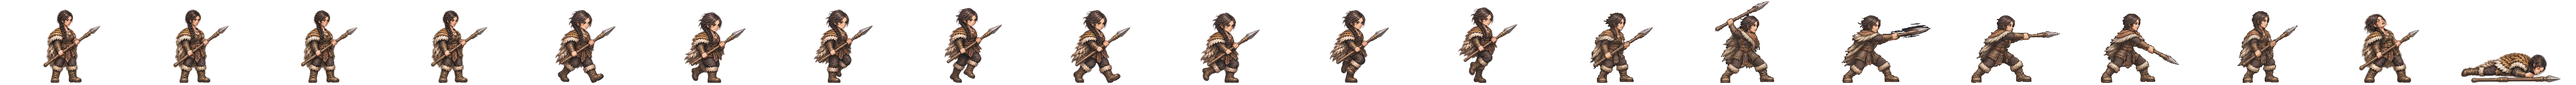
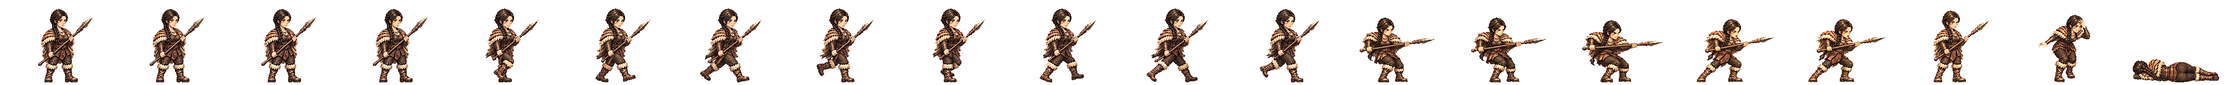
동예 범 사냥꾼 새 전투 띠를 게임에 넣음(서기·걷기·창 찌르기 여덟 칸·쓰러짐·범가죽 고쳐 두르기)
띠 검사 합격(경고: 공격 끝 칸 윗몸 9px 뒤) · 시험 2162 통과.

Claude-Session: https://claude.ai/code/session_01TRiuN7s6aDfSnaHxrkctmU

Changed region(s): [[0.4688, 0.0312, 1.0, 0.9688], [0.2188, 0.125, 0.4375, 0.9688], [0.0, 0.125, 0.1875, 0.9688]]

diff --git a/src/realm/data/spritePx.ts b/src/realm/data/spritePx.ts
@@ -1,3 +1,3 @@
 /** public/realm/anim-px/manifest.json 의 사본 — tools/sprite-normalize.mjs 가 만든다 (손으로 고치지 말 것). 칸 [가로, 세로] · feet = 발 줄(칸 위에서 y) · bodyPx = 서 있는 몸 키 */
 import { expandManifest } from './sprite-manifest.ts'
-export const SPRITE_PX: Readonly<Record<string, { readonly cell: readonly [number, number]; readonly feet: number; readonly bodyPx: number; readonly kind: 'general' | 'soldier' | 'folk' | 'crowd'; readonly cells: number }>> = expandManifest<{ readonly cell: readonly [number, number]; readonly feet: number; readonly bodyPx: number; readonly kind: 'general' | 'soldier' | 'folk' | 'crowd'; readonly cells: number }>([{"cell":[166,128],"feet":126,"bodyPx":124,"kind":"soldier","cells":20},{"cell":[116,128],"feet":126,"bodyPx":117,"kind":"soldier","cells":20},{"cell":[127,128],"feet":126,"bodyPx":116,"kind":"soldier","cells":20},{"cell":[269,128],"feet":126,"bodyPx":126,"kind":"soldier","cells":20},{"cell":[503,128],"feet":126,"bodyPx":127,"kind":"soldier","cells":20},{"cell":[614,128],"feet":126,"bodyPx":126,"kind":"soldier","cells":20},{"cell":[200,160],"feet":156,"bodyPx":138,"kind":"general","cells":20},{"cell":[208,160],"feet":155,"bodyPx":138,"kind":"general","cells":20},{"cell":[208,160],"feet":154,"bodyPx":138,"kind":"general","cells":20},{"cell":[304,160],"feet":155,"bodyPx":135,"kind":"general","cells":20},{"cell":[224,160],"feet":156,"bodyPx":139,"kind":"general","cells":20},{"cell":[184,160],"feet":156,"bodyPx":138,"kind":"general","cells":20},{"cell":[208,160],"feet":154,"bodyPx":136,"kind":"general","cells":20},{"cell":[240,160],"feet":156,"bodyPx":138,"kind":"general","cells":20},{"cell":[232,160],"feet":156,"bodyPx":138,"kind":"general","cells":20},{"cell":[208,160],"feet":156,"bodyPx":138,"kind":"general","cells":20},{"cell":[168,160],"feet":156,"bodyPx":138,"kind":"general","cells":20},{"cell":[192,160],"feet":156,"bodyPx":138,"kind":"general","cells":20},{"cell":[168,160],"feet":156,"bodyPx":124,"kind":"general","cells":20},{"cell":[216,160],"feet":156,"bodyPx":130,"kind":"general","cells":20},{"cell":[200,160],"feet":156,"bodyPx":116,"kind":"general","cells":20},{"cell":[200,160],"feet":156,"bodyPx":135,"kind":"general","cells":20},{"cell":[280,160],"feet":156,"bodyPx":138,"kind":"general","cells":20},{"cell":[232,160],"feet":155,"bodyPx":138,"kind":"general","cells":20},{"cell":[232,160],"feet":156,"bodyPx":134,"kind":"general","cells":20},{"cell":[144,160],"feet":156,"bodyPx":70,"kind":"general","cells":20},{"cell":[208,160],"feet":156,"bodyPx":70,"kind":"general","cells":20},{"cell":[192,160],"feet":156,"bodyPx":70,"kind":"general","cells":20},{"cell":[240,160],"feet":155,"bodyPx":138,"kind":"general","cells":20},{"cell":[160,160],"feet":156,"bodyPx":135,"kind":"general","cells":20},{"cell":[192,160],"feet":156,"bodyPx":128,"kind":"general","cells":20},{"cell":[224,160],"feet":155,"bodyPx":138,"kind":"general","cells":20},{"cell":[232,160],"feet":156,"bodyPx":139,"kind":"general","cells":20},{"cell":[264,160],"feet":155,"bodyPx":138,"kind":"general","cells":20},{"cell":[216,160],"feet":156,"bodyPx":138,"kind":"general","cells":20},{"cell":[208,160],"feet":156,"bodyPx":134,"kind":"general","cells":20},{"cell":[176,160],"feet":156,"bodyPx":130,"kind":"general","cells":20},{"cell":[248,160],"feet":156,"bodyPx":138,"kind":"general","cells":20},{"cell":[248,160],"feet":155,"bodyPx":138,"kind":"general","cells":20},{"cell":[192,160],"feet":155,"bodyPx":138,"kind":"general","cells":20},{"cell":[192,160],"feet":156,"bodyPx":124,"kind":"general","cells":20},{"cell":[208,160],"feet":154,"bodyPx":131,"kind":"general","cells":20},{"cell":[256,160],"feet":156,"bodyPx":138,"kind":"general","cells":20},{"cell":[232,160],"feet":156,"bodyPx":73,"kind":"general","cells":20},{"cell":[256,160],"feet":155,"bodyPx":138,"kind":"general","cells":20},{"cell":[224,160],"feet":156,"bodyPx":138,"kind":"general","cells":20},{"cell":[264,160],"feet":156,"bodyPx":138,"kind":"general","cells":20},{"cell":[224,160],"feet":156,"bodyPx":128,"kind":"general","cells":20},{"cell":[176,160],"feet":156,"bodyPx":129,"kind":"general","cells":20},{"cell":[208,160],"feet":156,"bodyPx":132,"kind":"general","cells":20},{"cell":[216,160],"feet":155,"bodyPx":138,"kind":"general","cells":20},{"cell":[184,160],"feet":156,"bodyPx":122,"kind":"general","cells":20},{"cell":[176,160],"feet":156,"bodyPx":138,"kind":"general","cells":20},{"cell":[280,160],"feet":155,"bodyPx":133,"kind":"general","cells":20},{"cell":[176,160],"feet":156,"bodyPx":70,"kind":"general","cells":20},{"cell":[186,128],"feet":126,"bodyPx":127,"kind":"soldier","cells":20},{"cell":[298,128],"feet":126,"bodyPx":126,"kind":"soldier","cells":20},{"cell":[82,128],"feet":126,"bodyPx":114,"kind":"folk","cells":8},{"cell":[134,128],"feet":126,"bodyPx":119,"kind":"soldier","cells":20},{"cell":[380,128],"feet":126,"bodyPx":124,"kind":"soldier","cells":20},{"cell":[114,128],"feet":126,"bodyPx":115,"kind":"soldier","cells":20},{"cell":[122,128],"feet":126,"bodyPx":114,"kind":"soldier","cells":20},{"cell":[254,128],"feet":126,"bodyPx":128,"kind":"soldier","cells":20},{"cell":[438,128],"feet":126,"bodyPx":126,"kind":"soldier","cells":20},{"cell":[88,128],"feet":126,"bodyPx":113,"kind":"folk","cells":8},{"cell":[100,128],"feet":126,"bodyPx":115,"kind":"folk","cells":8},{"cell":[108,128],"feet":126,"bodyPx":115,"kind":"folk","cells":8},{"cell":[63,128],"feet":126,"bodyPx":113,"kind":"folk","cells":8},{"cell":[69,96],"feet":96,"bodyPx":96,"kind":"crowd","cells":1},{"cell":[54,96],"feet":96,"bodyPx":96,"kind":"crowd","cells":1},{"cell":[47,96],"feet":96,"bodyPx":96,"kind":"crowd","cells":1},{"cell":[49,96],"feet":96,"bodyPx":96,"kind":"crowd","cells":1},{"cell":[57,96],"feet":96,"bodyPx":96,"kind":"crowd","cells":1},{"cell":[55,96],"feet":96,"bodyPx":96,"kind":"crowd","cells":1},{"cell":[45,96],"feet":96,"bodyPx":96,"kind":"crowd","cells":1},{"cell":[53,96],"feet":96,"bodyPx":96,"kind":"crowd","cells":1},{"cell":[64,96],"feet":96,"bodyPx":96,"kind":"crowd","cells":1},{"cell":[208,160],"feet":154,"bodyPx":139,"kind":"general","cells":20},{"cell":[184,160],"feet":156,"bodyPx":124,"kind":"general","cells":20},{"cell":[184,160],"feet":156,"bodyPx":134,"kind":"general","cells":20},{"cell":[224,160],"feet":156,"bodyPx":133,"kind":"general","cells":20},{"cell":[192,160],"feet":156,"bodyPx":135,"kind":"general","cells":20},{"cell":[184,160],"feet":156,"bodyPx":137,"kind":"general","cells":20},{"cell":[216,160],"feet":156,"bodyPx":134,"kind":"general","cells":20},{"cell":[216,160],"feet":156,"bodyPx":132,"kind":"general","cells":20},{"cell":[288,160],"feet":156,"bodyPx":138,"kind":"general","cells":20},{"cell":[192,160],"feet":156,"bodyPx":118,"kind":"general","cells":20},{"cell":[192,160],"feet":156,"bodyPx":134,"kind":"general","cells":20},{"cell":[192,160],"feet":157,"bodyPx":139,"kind":"general","cells":20},{"cell":[184,160],"feet":156,"bodyPx":128,"kind":"general","cells":20},{"cell":[240,160],"feet":156,"bodyPx":128,"kind":"general","cells":20},{"cell":[184,160],"feet":156,"bodyPx":132,"kind":"general","cells":20},{"cell":[208,160],"feet":156,"bodyPx":123,"kind":"general","cells":20},{"cell":[208,160],"feet":154,"bodyPx":137,"kind":"general","cells":20},{"cell":[176,160],"feet":156,"bodyPx":116,"kind":"general","cells":20},{"cell":[272,160],"feet":156,"bodyPx":138,"kind":"general","cells":20},{"cell":[176,160],"feet":156,"bodyPx":122,"kind":"general","cells":20},{"cell":[232,160],"feet":156,"bodyPx":127,"kind":"general","cells":20},{"cell":[176,160],"feet":156,"bodyPx":137,"kind":"general","cells":20},{"cell":[184,160],"feet":156,"bodyPx":133,"kind":"general","cells":20}],[["axe",0],["bandit-chief",1],["bandit-club",2],["boat",3],["bow",4],["crossbow",5],["gen-adogan",6],["gen-alpyeong",7],["gen-ara",8],["gen-areum",8],["gen-aryeong",9],["gen-bakdal",6],["gen-baram",10],["gen-bdanbi",11],["gen-beom",12],["gen-beombal",11],["gen-beomi",13],["gen-bira",14],["gen-biryu",15],["gen-budeul",16],["gen-byeol",17],["gen-daemusin",18],["gen-daeso",19],["gen-dallae2",11],["gen-dalli",11],["gen-damul",20],["gen-danbi",15],["gen-dangung",17],["gen-darae",21],["gen-dokmudeom",7],["gen-duman",22],["gen-eomni",23],["gen-eureum",24],["gen-g-bow",25],["gen-g-spear",26],["gen-g-sword",27],["gen-gaennae",6],["gen-gamsil",28],["gen-gaon",29],["gen-geota",15],["gen-geumbawi",11],["gen-geumha",30],["gen-goeun",15],["gen-gom",31],["gen-gomok",15],["gen-gureum",28],["gen-guryema",17],["gen-gwaeyu",14],["gen-haebi",8],["gen-haedal",6],["gen-haesol",32],["gen-halla",7],["gen-heo",33],["gen-hneoul",11],["gen-hogong",34],["gen-hojin",15],["gen-horselord",35],["gen-hwalmi",36],["gen-hyeokgeose",17],["gen-hyeopbo",6],["gen-irang",15],["gen-jibaekho",37],["gen-jinha",38],["gen-jita",39],["gen-jumong",40],["gen-keundol",7],["gen-maehwa",41],["gen-maenun",17],["gen-malgalgi",42],["gen-mari",13],["gen-maro",37],["gen-maryeo",15],["gen-mdallae",32],["gen-mir",6],["gen-mount",43],["gen-mulbeom",44],["gen-mulsae",34],["gen-musoe",34],["gen-noeul",45],["gen-nuri",46],["gen-ocheongan",45],["gen-odi",38],["gen-odogan",6],["gen-ogan",17],["gen-oi",47],["gen-olddaeso",24],["gen-onjo",48],["gen-pidogan",15],["gen-sagong",31],["gen-sdallae",6],["gen-sincheongan",34],["gen-singwigan",34],["gen-sinneoul",23],["gen-sobeol",23],["gen-soebi",6],["gen-soebo",49],["gen-soenun",37],["gen-sogeumbi",50],["gen-songbi",45],["gen-songyang",51],["gen-sori",52],["gen-soseono",53],["gen-suro",17],["gen-tahae",6],["gen-tneoul",45],["gen-w-bow",25],["gen-w-spear",54],["gen-waechief",15],["gen-wan",34],["gen-yeodogan",15],["gen-yucheongan",15],["gen-yusugan",37],["horse",55],["marine",56],["migrant",57],["militia",58],["pike",59],["pirate-captain",60],["pirate-sword",61],["shield",62],["spear",63],["villager-builder",64],["villager-farmer",65],["villager-porter",66],["villager-woman",67],["crowd-b1",68],["crowd-b2",69],["crowd-b3",70],["crowd-b4",71],["crowd-b5",72],["crowd-b6",73],["crowd-f1",68],["crowd-f2",73],["crowd-f3",74],["crowd-f4",75],["crowd-f5",68],["crowd-f6",76],["gen-dalbit",15],["gen-base-g-07-drunk-warrior",17],["gen-base-g-40-anya-adan",15],["gen-base-w-13-young-archer",8],["gen-base-g-03-sea-trader",13],["gen-base-w-10-pirate-captain",77],["gen-base-w-64-miri-dallae",77],["gen-base-g-41-goja-bau",13],["gen-base-g-42-dokro-garam",46],["gen-base-g-09-farmer-conscript",34],["gen-base-w-02-goguryeo-lady",34],["gen-base-w-17-mahan-pearl-diver",8],["gen-base-g-17-saro-isageum",49],["gen-base-g-18-daegaya-king",78],["gen-base-g-35-dabeol-dalgu",15],["gen-base-g-19-sabeol-veteran",34],["gen-base-w-23-usisan-whale-queen",34],["gen-base-g-36-gammun-gamdol",45],["gen-base-g-20-samul-sea-lord",42],["gen-base-g-37-eumjeup-jeup",11],["gen-base-g-38-chopal-palmae",17],["gen-base-w-75-daegaya-soemoe",17],["gen-base-g-45-dabeol-deulgae",11],["gen-base-g-04-jinhan-giant",15],["gen-base-g-08-veteran",15],["gen-base-w-18-jinhan-salt-widow",15],["gen-base-w-12-court-dancer",79],["gen-base-w-83-gyeonji-beodeul",80],["gen-base-w-05-baekje-queen",81],["gen-base-w-21-baekje-court-dancer",11],["gen-base-g-01-master-smith",82],["gen-base-g-93-jomun-solgae",36],["gen-base-g-57-bihwa-neup",13],["gen-base-w-72-eumjeup-beol",15],["gen-base-w-102-garak-dana",34],["gen-base-g-68-baekje-onnuri",15],["gen-base-w-27-mokji-jinha",6],["gen-base-g-22-ungcheon-gomnae",6],["gen-base-g-23-sangdang-soedal",15],["gen-base-g-24-wansan-onsan",6],["gen-base-g-25-balla-keunmoe",34],["gen-base-g-61-heomcheuk-bawi",34],["gen-base-g-88-wander-soeul",45],["gen-base-w-14-feast-spy",6],["gen-base-g-12-silla-youth",83],["gen-base-w-08-mahan-warrior",13],["gen-base-g-62-beonye-hanul",13],["gen-base-g-63-heomcheuk-beogeum",15],["gen-base-g-84-wander-seoneul",15],["gen-base-w-50-siljik-mulga",34],["gen-base-g-46-uga-nureongso",34],["gen-base-w-80-usan-gangchi",13],["gen-base-g-47-guga-sanyanggae",34],["gen-base-w-76-gampyeong-baetsagong",37],["gen-base-g-05-mahan-chieftain",84],["gen-base-g-58-usan-uhae",15],["gen-base-g-27-maek-maekdol",15],["gen-base-w-53-hwanna-gabi",16],["gen-base-w-29-golpo-janmul",37],["gen-base-g-53-baekje-haeru",6],["gen-base-w-71-yeonna-neoul",13],["gen-base-w-79-yangmaek-solmae",34],["gen-base-w-34-chopal-deulme",46],["gen-base-g-44-maga-malgup",85],["gen-base-w-31-dabeol-dalbit",77],["gen-base-g-51-biryuna-mulgyeol",45],["gen-base-g-48-gwanna-musoe",15],["gen-base-g-32-uga-sodu",14],["gen-base-g-49-goguryeo-sona",86],["gen-base-g-30-gwanna-soemoe",45],["gen-base-g-52-tamna-oreum",11],["gen-base-g-29-yeonna-myeongsol",40],["gen-base-w-56-dongokjeo-sogeum",87],["gen-base-g-54-mokji-mahan",14],["gen-base-g-33-jeoga-metdol",17],["gen-base-w-36-baekje-maena",17],["gen-base-w-38-sangdang-bulmae",6],["gen-base-w-39-gosaburi-galmae",88],["gen-base-w-40-mujin-munui",49],["gen-base-w-41-hwanna-beodeul",89],["gen-base-w-43-uga-nuri",42],["gen-base-w-45-tamna-oreumbi",11],["gen-base-g-60-golbeol-golgae",11],["gen-base-g-61-apdok-ap",34],["gen-base-g-62-gammun-gamnamu",6],["gen-base-g-63-chopal-yeoul",37],["gen-base-g-64-michuhol-sogeumkkun",13],["gen-base-g-65-sangdang-soemangchi",45],["gen-base-g-66-geonma-malbalgup",90],["gen-base-g-67-gosaburi-buri",91],["gen-base-g-68-mujin-bitgoeul",11],["gen-base-g-69-goryong-yong",45],["gen-base-g-70-siljik-pado",13],["gen-base-w-81-byeokjin-byeolbit",14],["gen-base-w-46-geonma-maru",37],["gen-base-w-48-mujin-mudeung",13],["gen-base-g-26-gampyeong-gaetbeol",14],["gen-base-g-60-eupcha-hangyeol",92],["gen-base-g-15-shaman-man",34],["gen-base-g-85-wander-ure",37],["gen-base-g-43-hwanna-amnok",15],["gen-base-g-50-bullae-gwaha",81],["gen-base-g-55-saro-bakdal",15],["gen-base-g-56-haseulla-gwahama",6],["gen-base-w-06-buyeo-huntress",93],["gen-base-w-22-dongye-tiger-huntress",13],["gen-base-w-25-bihwa-priestess",34],["gen-base-w-24-apdok-queen",11],["gen-base-w-61-iseo-sinae",15],["gen-base-w-26-iseo-tomboy-general",46],["gen-base-g-59-yangmaek-maekson",94],["gen-aw1-haebi",45],["gen-aw1-soseono",95],["gen-aw1-gamsil",11],["gen-aw1-mir",52],["gen-aw1-dangung",6],["gen-aw1-ara",45],["gen-aw1-jumong",96],["gen-aw1-onjo",97],["gen-aw1-base-w-83-gyeonji-beodeul",17],["gen-aw1-heo",46],["gen-aw1-base-g-38-chopal-palmae",6],["gen-aw1-base-w-25-bihwa-priestess",79],["gen-aw1-sori",16],["gen-aw1-gomok",6],["gen-aw1-irang",17],["gen-aw1-budeul",16],["gen-aw1-gom",13],["gen-aw1-sdallae",6],["gen-aw1-base-w-13-young-archer",6],["gen-aw1-base-w-36-baekje-maena",98],["gen-aw1-base-g-09-farmer-conscript",46],["gen-aw1-base-w-02-goguryeo-lady",99],["gen-aw1-haedal",11],["gen-aw1-hogong",6],["gen-aw1-maehwa",52],["gen-aw1-base-w-06-buyeo-huntress",14],["gen-aw1-base-w-08-mahan-warrior",45],["gen-aw1-base-w-29-golpo-janmul",45],["gen-aw1-base-w-31-dabeol-dalbit",17],["gen-aw1-base-w-38-sangdang-bulmae",16],["gen-aw1-bira",34],["gen-aw1-base-w-53-hwanna-gabi",16],["gen-aw1-base-w-56-dongokjeo-sogeum",52],["gen-aw1-base-w-72-eumjeup-beol",17],["gen-aw1-bdanbi",16],["gen-aw1-beom",11],["gen-aw1-beombal",11],["gen-aw1-byeol",17],["gen-aw1-dalli",52],["gen-aw1-malgalgi",37],["gen-aw1-sincheongan",34]])
+export const SPRITE_PX: Readonly<Record<string, { readonly cell: readonly [number, number]; readonly feet: number; readonly bodyPx: number; readonly kind: 'general' | 'soldier' | 'folk' | 'crowd'; readonly cells: number }>> = expandManifest<{ readonly cell: readonly [number, number]; readonly feet: number; readonly bodyPx: number; readonly kind: 'general' | 'soldier' | 'folk' | 'crowd'; readonly cells: number }>([{"cell":[166,128],"feet":126,"bodyPx":124,"kind":"soldier","cells":20},{"cell":[116,128],"feet":126,"bodyPx":117,"kind":"soldier","cells":20},{"cell":[127,128],"feet":126,"bodyPx":116,"kind":"soldier","cells":20},{"cell":[269,128],"feet":126,"bodyPx":126,"kind":"soldier","cells":20},{"cell":[503,128],"feet":126,"bodyPx":127,"kind":"soldier","cells":20},{"cell":[614,128],"feet":126,"bodyPx":126,"kind":"soldier","cells":20},{"cell":[200,160],"feet":156,"bodyPx":138,"kind":"general","cells":20},{"cell":[208,160],"feet":155,"bodyPx":138,"kind":"general","cells":20},{"cell":[208,160],"feet":154,"bodyPx":138,"kind":"general","cells":20},{"cell":[304,160],"feet":155,"bodyPx":135,"kind":"general","cells":20},{"cell":[224,160],"feet":156,"bodyPx":139,"kind":"general","cells":20},{"cell":[184,160],"feet":156,"bodyPx":138,"kind":"general","cells":20},{"cell":[208,160],"feet":154,"bodyPx":136,"kind":"general","cells":20},{"cell":[240,160],"feet":156,"bodyPx":138,"kind":"general","cells":20},{"cell":[232,160],"feet":156,"bodyPx":138,"kind":"general","cells":20},{"cell":[208,160],"feet":156,"bodyPx":138,"kind":"general","cells":20},{"cell":[168,160],"feet":156,"bodyPx":138,"kind":"general","cells":20},{"cell":[192,160],"feet":156,"bodyPx":138,"kind":"general","cells":20},{"cell":[168,160],"feet":156,"bodyPx":124,"kind":"general","cells":20},{"cell":[216,160],"feet":156,"bodyPx":130,"kind":"general","cells":20},{"cell":[200,160],"feet":156,"bodyPx":116,"kind":"general","cells":20},{"cell":[200,160],"feet":156,"bodyPx":135,"kind":"general","cells":20},{"cell":[280,160],"feet":156,"bodyPx":138,"kind":"general","cells":20},{"cell":[232,160],"feet":155,"bodyPx":138,"kind":"general","cells":20},{"cell":[232,160],"feet":156,"bodyPx":134,"kind":"general","cells":20},{"cell":[144,160],"feet":156,"bodyPx":70,"kind":"general","cells":20},{"cell":[208,160],"feet":156,"bodyPx":70,"kind":"general","cells":20},{"cell":[192,160],"feet":156,"bodyPx":70,"kind":"general","cells":20},{"cell":[240,160],"feet":155,"bodyPx":138,"kind":"general","cells":20},{"cell":[160,160],"feet":156,"bodyPx":135,"kind":"general","cells":20},{"cell":[192,160],"feet":156,"bodyPx":128,"kind":"general","cells":20},{"cell":[224,160],"feet":155,"bodyPx":138,"kind":"general","cells":20},{"cell":[232,160],"feet":156,"bodyPx":139,"kind":"general","cells":20},{"cell":[264,160],"feet":155,"bodyPx":138,"kind":"general","cells":20},{"cell":[216,160],"feet":156,"bodyPx":138,"kind":"general","cells":20},{"cell":[208,160],"feet":156,"bodyPx":134,"kind":"general","cells":20},{"cell":[176,160],"feet":156,"bodyPx":130,"kind":"general","cells":20},{"cell":[248,160],"feet":156,"bodyPx":138,"kind":"general","cells":20},{"cell":[248,160],"feet":155,"bodyPx":138,"kind":"general","cells":20},{"cell":[192,160],"feet":155,"bodyPx":138,"kind":"general","cells":20},{"cell":[192,160],"feet":156,"bodyPx":124,"kind":"general","cells":20},{"cell":[208,160],"feet":154,"bodyPx":131,"kind":"general","cells":20},{"cell":[256,160],"feet":156,"bodyPx":138,"kind":"general","cells":20},{"cell":[232,160],"feet":156,"bodyPx":73,"kind":"general","cells":20},{"cell":[256,160],"feet":155,"bodyPx":138,"kind":"general","cells":20},{"cell":[224,160],"feet":156,"bodyPx":138,"kind":"general","cells":20},{"cell":[264,160],"feet":156,"bodyPx":138,"kind":"general","cells":20},{"cell":[224,160],"feet":156,"bodyPx":128,"kind":"general","cells":20},{"cell":[176,160],"feet":156,"bodyPx":129,"kind":"general","cells":20},{"cell":[208,160],"feet":156,"bodyPx":132,"kind":"general","cells":20},{"cell":[216,160],"feet":155,"bodyPx":138,"kind":"general","cells":20},{"cell":[184,160],"feet":156,"bodyPx":122,"kind":"general","cells":20},{"cell":[176,160],"feet":156,"bodyPx":138,"kind":"general","cells":20},{"cell":[280,160],"feet":155,"bodyPx":133,"kind":"general","cells":20},{"cell":[176,160],"feet":156,"bodyPx":70,"kind":"general","cells":20},{"cell":[186,128],"feet":126,"bodyPx":127,"kind":"soldier","cells":20},{"cell":[298,128],"feet":126,"bodyPx":126,"kind":"soldier","cells":20},{"cell":[82,128],"feet":126,"bodyPx":114,"kind":"folk","cells":8},{"cell":[134,128],"feet":126,"bodyPx":119,"kind":"soldier","cells":20},{"cell":[380,128],"feet":126,"bodyPx":124,"kind":"soldier","cells":20},{"cell":[114,128],"feet":126,"bodyPx":115,"kind":"soldier","cells":20},{"cell":[122,128],"feet":126,"bodyPx":114,"kind":"soldier","cells":20},{"cell":[254,128],"feet":126,"bodyPx":128,"kind":"soldier","cells":20},{"cell":[438,128],"feet":126,"bodyPx":126,"kind":"soldier","cells":20},{"cell":[88,128],"feet":126,"bodyPx":113,"kind":"folk","cells":8},{"cell":[100,128],"feet":126,"bodyPx":115,"kind":"folk","cells":8},{"cell":[108,128],"feet":126,"bodyPx":115,"kind":"folk","cells":8},{"cell":[63,128],"feet":126,"bodyPx":113,"kind":"folk","cells":8},{"cell":[69,96],"feet":96,"bodyPx":96,"kind":"crowd","cells":1},{"cell":[54,96],"feet":96,"bodyPx":96,"kind":"crowd","cells":1},{"cell":[47,96],"feet":96,"bodyPx":96,"kind":"crowd","cells":1},{"cell":[49,96],"feet":96,"bodyPx":96,"kind":"crowd","cells":1},{"cell":[57,96],"feet":96,"bodyPx":96,"kind":"crowd","cells":1},{"cell":[55,96],"feet":96,"bodyPx":96,"kind":"crowd","cells":1},{"cell":[45,96],"feet":96,"bodyPx":96,"kind":"crowd","cells":1},{"cell":[53,96],"feet":96,"bodyPx":96,"kind":"crowd","cells":1},{"cell":[64,96],"feet":96,"bodyPx":96,"kind":"crowd","cells":1},{"cell":[208,160],"feet":154,"bodyPx":139,"kind":"general","cells":20},{"cell":[184,160],"feet":156,"bodyPx":124,"kind":"general","cells":20},{"cell":[184,160],"feet":156,"bodyPx":134,"kind":"general","cells":20},{"cell":[224,160],"feet":156,"bodyPx":133,"kind":"general","cells":20},{"cell":[192,160],"feet":156,"bodyPx":135,"kind":"general","cells":20},{"cell":[184,160],"feet":156,"bodyPx":137,"kind":"general","cells":20},{"cell":[216,160],"feet":156,"bodyPx":134,"kind":"general","cells":20},{"cell":[216,160],"feet":156,"bodyPx":132,"kind":"general","cells":20},{"cell":[288,160],"feet":156,"bodyPx":138,"kind":"general","cells":20},{"cell":[192,160],"feet":156,"bodyPx":118,"kind":"general","cells":20},{"cell":[192,160],"feet":156,"bodyPx":134,"kind":"general","cells":20},{"cell":[192,160],"feet":157,"bodyPx":139,"kind":"general","cells":20},{"cell":[184,160],"feet":156,"bodyPx":128,"kind":"general","cells":20},{"cell":[240,160],"feet":156,"bodyPx":128,"kind":"general","cells":20},{"cell":[184,160],"feet":156,"bodyPx":132,"kind":"general","cells":20},{"cell":[208,160],"feet":156,"bodyPx":123,"kind":"general","cells":20},{"cell":[208,160],"feet":154,"bodyPx":137,"kind":"general","cells":20},{"cell":[176,160],"feet":156,"bodyPx":116,"kind":"general","cells":20},{"cell":[272,160],"feet":156,"bodyPx":138,"kind":"general","cells":20},{"cell":[176,160],"feet":156,"bodyPx":122,"kind":"general","cells":20},{"cell":[232,160],"feet":156,"bodyPx":127,"kind":"general","cells":20},{"cell":[176,160],"feet":156,"bodyPx":137,"kind":"general","cells":20},{"cell":[184,160],"feet":156,"bodyPx":133,"kind":"general","cells":20}],[["axe",0],["bandit-chief",1],["bandit-club",2],["boat",3],["bow",4],["crossbow",5],["gen-adogan",6],["gen-alpyeong",7],["gen-ara",8],["gen-areum",8],["gen-aryeong",9],["gen-bakdal",6],["gen-baram",10],["gen-bdanbi",11],["gen-beom",12],["gen-beombal",11],["gen-beomi",13],["gen-bira",14],["gen-biryu",15],["gen-budeul",16],["gen-byeol",17],["gen-daemusin",18],["gen-daeso",19],["gen-dallae2",11],["gen-dalli",11],["gen-damul",20],["gen-danbi",15],["gen-dangung",17],["gen-darae",21],["gen-dokmudeom",7],["gen-duman",22],["gen-eomni",23],["gen-eureum",24],["gen-g-bow",25],["gen-g-spear",26],["gen-g-sword",27],["gen-gaennae",6],["gen-gamsil",28],["gen-gaon",29],["gen-geota",15],["gen-geumbawi",11],["gen-geumha",30],["gen-goeun",15],["gen-gom",31],["gen-gomok",15],["gen-gureum",28],["gen-guryema",17],["gen-gwaeyu",14],["gen-haebi",8],["gen-haedal",6],["gen-haesol",32],["gen-halla",7],["gen-heo",33],["gen-hneoul",11],["gen-hogong",34],["gen-hojin",15],["gen-horselord",35],["gen-hwalmi",36],["gen-hyeokgeose",17],["gen-hyeopbo",6],["gen-irang",15],["gen-jibaekho",37],["gen-jinha",38],["gen-jita",39],["gen-jumong",40],["gen-keundol",7],["gen-maehwa",41],["gen-maenun",17],["gen-malgalgi",42],["gen-mari",13],["gen-maro",37],["gen-maryeo",15],["gen-mdallae",32],["gen-mir",6],["gen-mount",43],["gen-mulbeom",44],["gen-mulsae",34],["gen-musoe",34],["gen-noeul",45],["gen-nuri",46],["gen-ocheongan",45],["gen-odi",38],["gen-odogan",6],["gen-ogan",17],["gen-oi",47],["gen-olddaeso",24],["gen-onjo",48],["gen-pidogan",15],["gen-sagong",31],["gen-sdallae",6],["gen-sincheongan",34],["gen-singwigan",34],["gen-sinneoul",23],["gen-sobeol",23],["gen-soebi",6],["gen-soebo",49],["gen-soenun",37],["gen-sogeumbi",50],["gen-songbi",45],["gen-songyang",51],["gen-sori",52],["gen-soseono",53],["gen-suro",17],["gen-tahae",6],["gen-tneoul",45],["gen-w-bow",25],["gen-w-spear",54],["gen-waechief",15],["gen-wan",34],["gen-yeodogan",15],["gen-yucheongan",15],["gen-yusugan",37],["horse",55],["marine",56],["migrant",57],["militia",58],["pike",59],["pirate-captain",60],["pirate-sword",61],["shield",62],["spear",63],["villager-builder",64],["villager-farmer",65],["villager-porter",66],["villager-woman",67],["crowd-b1",68],["crowd-b2",69],["crowd-b3",70],["crowd-b4",71],["crowd-b5",72],["crowd-b6",73],["crowd-f1",68],["crowd-f2",73],["crowd-f3",74],["crowd-f4",75],["crowd-f5",68],["crowd-f6",76],["gen-dalbit",15],["gen-base-g-07-drunk-warrior",17],["gen-base-g-40-anya-adan",15],["gen-base-w-13-young-archer",8],["gen-base-g-03-sea-trader",13],["gen-base-w-10-pirate-captain",77],["gen-base-w-64-miri-dallae",77],["gen-base-g-41-goja-bau",13],["gen-base-g-42-dokro-garam",46],["gen-base-g-09-farmer-conscript",34],["gen-base-w-02-goguryeo-lady",34],["gen-base-w-17-mahan-pearl-diver",8],["gen-base-g-17-saro-isageum",49],["gen-base-g-18-daegaya-king",78],["gen-base-g-35-dabeol-dalgu",15],["gen-base-g-19-sabeol-veteran",34],["gen-base-w-23-usisan-whale-queen",34],["gen-base-g-36-gammun-gamdol",45],["gen-base-g-20-samul-sea-lord",42],["gen-base-g-37-eumjeup-jeup",11],["gen-base-g-38-chopal-palmae",17],["gen-base-w-75-daegaya-soemoe",17],["gen-base-g-45-dabeol-deulgae",11],["gen-base-g-04-jinhan-giant",15],["gen-base-g-08-veteran",15],["gen-base-w-18-jinhan-salt-widow",15],["gen-base-w-12-court-dancer",79],["gen-base-w-83-gyeonji-beodeul",80],["gen-base-w-05-baekje-queen",81],["gen-base-w-21-baekje-court-dancer",11],["gen-base-g-01-master-smith",82],["gen-base-g-93-jomun-solgae",36],["gen-base-g-57-bihwa-neup",13],["gen-base-w-72-eumjeup-beol",15],["gen-base-w-102-garak-dana",34],["gen-base-g-68-baekje-onnuri",15],["gen-base-w-27-mokji-jinha",6],["gen-base-g-22-ungcheon-gomnae",6],["gen-base-g-23-sangdang-soedal",15],["gen-base-g-24-wansan-onsan",6],["gen-base-g-25-balla-keunmoe",34],["gen-base-g-61-heomcheuk-bawi",34],["gen-base-g-88-wander-soeul",45],["gen-base-w-14-feast-spy",6],["gen-base-g-12-silla-youth",83],["gen-base-w-08-mahan-warrior",13],["gen-base-g-62-beonye-hanul",13],["gen-base-g-63-heomcheuk-beogeum",15],["gen-base-g-84-wander-seoneul",15],["gen-base-w-50-siljik-mulga",34],["gen-base-g-46-uga-nureongso",34],["gen-base-w-80-usan-gangchi",13],["gen-base-g-47-guga-sanyanggae",34],["gen-base-w-76-gampyeong-baetsagong",37],["gen-base-g-05-mahan-chieftain",84],["gen-base-g-58-usan-uhae",15],["gen-base-g-27-maek-maekdol",15],["gen-base-w-53-hwanna-gabi",16],["gen-base-w-29-golpo-janmul",37],["gen-base-g-53-baekje-haeru",6],["gen-base-w-71-yeonna-neoul",13],["gen-base-w-79-yangmaek-solmae",34],["gen-base-w-34-chopal-deulme",46],["gen-base-g-44-maga-malgup",85],["gen-base-w-31-dabeol-dalbit",77],["gen-base-g-51-biryuna-mulgyeol",45],["gen-base-g-48-gwanna-musoe",15],["gen-base-g-32-uga-sodu",14],["gen-base-g-49-goguryeo-sona",86],["gen-base-g-30-gwanna-soemoe",45],["gen-base-g-52-tamna-oreum",11],["gen-base-g-29-yeonna-myeongsol",40],["gen-base-w-56-dongokjeo-sogeum",87],["gen-base-g-54-mokji-mahan",14],["gen-base-g-33-jeoga-metdol",17],["gen-base-w-36-baekje-maena",17],["gen-base-w-38-sangdang-bulmae",6],["gen-base-w-39-gosaburi-galmae",88],["gen-base-w-40-mujin-munui",49],["gen-base-w-41-hwanna-beodeul",89],["gen-base-w-43-uga-nuri",42],["gen-base-w-45-tamna-oreumbi",11],["gen-base-g-60-golbeol-golgae",11],["gen-base-g-61-apdok-ap",34],["gen-base-g-62-gammun-gamnamu",6],["gen-base-g-63-chopal-yeoul",37],["gen-base-g-64-michuhol-sogeumkkun",13],["gen-base-g-65-sangdang-soemangchi",45],["gen-base-g-66-geonma-malbalgup",90],["gen-base-g-67-gosaburi-buri",91],["gen-base-g-68-mujin-bitgoeul",11],["gen-base-g-69-goryong-yong",45],["gen-base-g-70-siljik-pado",13],["gen-base-w-81-byeokjin-byeolbit",14],["gen-base-w-46-geonma-maru",37],["gen-base-w-48-mujin-mudeung",13],["gen-base-g-26-gampyeong-gaetbeol",14],["gen-base-g-60-eupcha-hangyeol",92],["gen-base-g-15-shaman-man",34],["gen-base-g-85-wander-ure",37],["gen-base-g-43-hwanna-amnok",15],["gen-base-g-50-bullae-gwaha",81],["gen-base-g-55-saro-bakdal",15],["gen-base-g-56-haseulla-gwahama",6],["gen-base-w-06-buyeo-huntress",93],["gen-base-w-22-dongye-tiger-huntress",8],["gen-base-w-25-bihwa-priestess",34],["gen-base-w-24-apdok-queen",11],["gen-base-w-61-iseo-sinae",15],["gen-base-w-26-iseo-tomboy-general",46],["gen-base-g-59-yangmaek-maekson",94],["gen-aw1-haebi",45],["gen-aw1-soseono",95],["gen-aw1-gamsil",11],["gen-aw1-mir",52],["gen-aw1-dangung",6],["gen-aw1-ara",45],["gen-aw1-jumong",96],["gen-aw1-onjo",97],["gen-aw1-base-w-83-gyeonji-beodeul",17],["gen-aw1-heo",46],["gen-aw1-base-g-38-chopal-palmae",6],["gen-aw1-base-w-25-bihwa-priestess",79],["gen-aw1-sori",16],["gen-aw1-gomok",6],["gen-aw1-irang",17],["gen-aw1-budeul",16],["gen-aw1-gom",13],["gen-aw1-sdallae",6],["gen-aw1-base-w-13-young-archer",6],["gen-aw1-base-w-36-baekje-maena",98],["gen-aw1-base-g-09-farmer-conscript",46],["gen-aw1-base-w-02-goguryeo-lady",99],["gen-aw1-haedal",11],["gen-aw1-hogong",6],["gen-aw1-maehwa",52],["gen-aw1-base-w-06-buyeo-huntress",14],["gen-aw1-base-w-08-mahan-warrior",45],["gen-aw1-base-w-29-golpo-janmul",45],["gen-aw1-base-w-31-dabeol-dalbit",17],["gen-aw1-base-w-38-sangdang-bulmae",16],["gen-aw1-bira",34],["gen-aw1-base-w-53-hwanna-gabi",16],["gen-aw1-base-w-56-dongokjeo-sogeum",52],["gen-aw1-base-w-72-eumjeup-beol",17],["gen-aw1-bdanbi",16],["gen-aw1-beom",11],["gen-aw1-beombal",11],["gen-aw1-byeol",17],["gen-aw1-dalli",52],["gen-aw1-malgalgi",37],["gen-aw1-sincheongan",34]])

diff --git a/src/duel/view.ts b/src/duel/view.ts
@@ -100,7 +100,7 @@ const crowdFront = [1, 2, 3, 4, 5, 6].map((i) => img(`realm/duel/crowd/b${i}.png
 const crowdReady = (set: HTMLImageElement[]): boolean => set.every((im) => im.complete && im.naturalWidth > 0)
 const pxMode = cfg.px !== false && params.get('px') !== '0'
 /** 겨루기 전용 옛 띠(duel/sprites) 대신 열전과 같은 도트 띠(anim-px)를 쓰는 장수 — 두 판에서 같은 모습 · 서기 계획·쓰러지는 칸도 같다 (11-23 범 · 매화 · 달빛 · 11-24 해비 · 아룸) */
-const PX_DUEL: ReadonlySet<string> = new Set(['beom', 'maehwa', 'base-w-31-dabeol-dalbit', 'haebi', 'areum', 'base-w-13-young-archer', 'base-w-10-pirate-captain', 'base-w-17-mahan-pearl-diver', 'base-w-06-buyeo-huntress', 'base-w-64-miri-dallae', 'ara'])
+const PX_DUEL: ReadonlySet<string> = new Set(['beom', 'maehwa', 'base-w-31-dabeol-dalbit', 'haebi', 'areum', 'base-w-13-young-archer', 'base-w-10-pirate-captain', 'base-w-17-mahan-pearl-diver', 'base-w-06-buyeo-huntress', 'base-w-64-miri-dallae', 'ara', 'base-w-22-dongye-tiger-huntress'])
 /** 띠 그림 — 기본은 anim-px(도트 규격) 먼저, 없으면 옛 띠로 (img 의 onerror 가 갈아 끼운다) */
 const strip = (s: string): HTMLImageElement => pxMode
   ? DUEL_ATLASES[s] !== undefined && !PX_DUEL.has(s) ? img(`realm/duel/sprites/gen-${s}.png`, `realm/anim-px/gen-${s}.png`)

diff --git a/src/tune/params.ts b/src/tune/params.ts
@@ -1421,6 +1421,7 @@ export const HAEBI_IDLE = {
     'base-w-06-buyeo-huntress': { cells: 34, base: [0, 1], hold: 2.4, fall: [18, 20, 21, 19], quirk: [22, 23, 24, 25], quirkTimes: [.3, .32, .4, .28], attack: { cells: [26, 27, 28, 29, 30, 31, 32, 33], times: [.09, .08, .11, .05, .15, .07, .08, .12], hit: 4 }, xGeom: { h: 224, root: 92, foot: 216 } },
     'base-w-64-miri-dallae': { cells: 34, base: [0, 1], hold: 2.4, fall: [18, 20, 21, 19], quirk: [22, 23, 24, 25], quirkTimes: [.3, .32, .4, .28], attack: { cells: [26, 27, 28, 29, 30, 31, 32, 33], times: [.09, .08, .11, .05, .15, .07, .08, .12], hit: 4 }, xGeom: { h: 224, root: 92, foot: 216 } },
     ara: { cells: 34, base: [0, 1], hold: 2.4, fall: [18, 20, 21, 19], quirk: [22, 23, 24, 25], quirkTimes: [.3, .32, .4, .28], attack: { cells: [26, 27, 28, 29, 30, 31, 32, 33], times: [.09, .08, .11, .05, .15, .07, .08, .12], hit: 4 }, xGeom: { h: 224, root: 92, foot: 216 } },
+    'base-w-22-dongye-tiger-huntress': { cells: 34, base: [0, 1], hold: 2.4, fall: [18, 20, 21, 19], quirk: [22, 23, 24, 25], quirkTimes: [.3, .32, .4, .28], attack: { cells: [26, 27, 28, 29, 30, 31, 32, 33], times: [.09, .08, .11, .05, .15, .07, .08, .12], hit: 4 }, xGeom: { h: 224, root: 92, foot: 216 } },
   },
 } as const
 export const HAEBI_ANIM = {

diff --git a/src/raid/hero-hd.ts b/src/raid/hero-hd.ts
@@ -43,7 +43,6 @@ export const HERO_HD: Readonly<Record<string, string>> = {
   'anim-px/gen-aw1-base-w-29-golpo-janmul.png': 'anim-px/gen-aw1-base-w-29-golpo-janmul_hd.png',
   'anim-px/gen-aw1-base-w-25-bihwa-priestess.png': 'anim-px/gen-aw1-base-w-25-bihwa-priestess_hd.png',
   'anim-px/gen-base-w-24-apdok-queen.png': 'anim-px/gen-base-w-24-apdok-queen_hd.png',
-  'anim-px/gen-base-w-22-dongye-tiger-huntress.png': 'anim-px/gen-base-w-22-dongye-tiger-huntress_hd.png',
   'anim-px/gen-base-w-21-baekje-court-dancer.png': 'anim-px/gen-base-w-21-baekje-court-dancer_hd.png',
   'anim-px/gen-base-w-18-jinhan-salt-widow.png': 'anim-px/gen-base-w-18-jinhan-salt-widow_hd.png',
   'anim-px/gen-base-w-14-feast-spy.png': 'anim-px/gen-base-w-14-feast-spy_hd.png',
